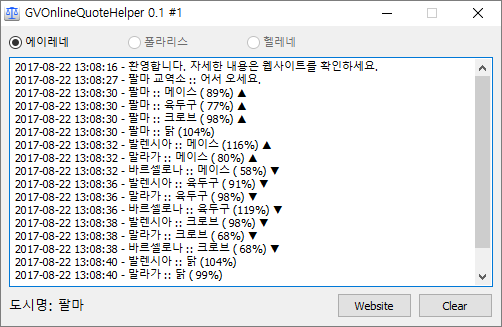
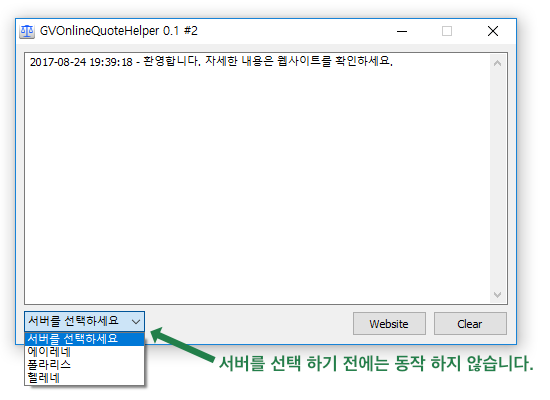
Notice :: Enable other servers.

Changed region(s): [[0.0, 0.0, 1.0, 1.0]]

diff --git a/www/index.php b/www/index.php
@@ -16,7 +16,7 @@
         <p>모든 데이터는 최대 3시간 동안 보존되며 Memory에서만 동작함으로 Disk에 기록되지 않습니다.</p>
         <p>어떠한 개인 정보도 수집하지 않으며 순수한 게임 정보 공유가 목적임으로 공격은 하지 말아 주시기 바랍니다.<br />노출되어서 문제가 되는 데이터는 없으므로 보안을 적용하지 않았습니다.<br />또한 Source 가 공개 되어 있으니 내용이 궁금하시다면 그쪽을 참고 해 주시기 바랍니다.</p>
         <p>Site 운영에 따른 Cost 가 개인이 감당할 수 없는 수준이라면 광고가 삽입될 수 있습니다.</p>
-        <p>"에이레네 서버"를 제외 한 부분은 당분간은 제공하지 않습니다.</p>
+        <p>"에이레네 서버"를 제외 한 부분은 테스트가 충분하지 않으니 많은 리포트 부탁 드립니다.</p>
         <p>게임 운영 정책에 맞지 않아 제재 또는 그에 상응하는 요구가 있으면 예고 없이 운영이 종료될 수 있습니다.</p>
         <p>문의 및 의논 사항은 언제든지 <a href="mailto:gvonline.helper@gmail.com" target="_top">gvonline.helper@gmail.com</a> 으로 연락 주시기 바랍니다.<br />(Design 이 구린것은 개발자 능력 부족한 것이니 Designer 모집 합니다. +.+)</p>
         <p>개발되는 모든 부분은 <a href="https://opensource.org/licenses/MIT">MIT License</a> 로 <a href="https://github.com/gvonline" target="_blank">GitHub</a> 에 공개 되므로 관심 있으신 분께선 같이 참여해 주시면 감사 하겠습니다.</p>
@@ -26,8 +26,8 @@
         <a class="btn btn-info btn-lg btn-block" href="http://quote.gvonline.ga" role="button">시세 도우미</a>
         <br />
         <a class="btn btn-primary btn-lg btn-block" href="http://eirene.gvonline.ga" role="button">에이레네 서버</a>
-        <a class="btn btn-default btn-lg btn-block" href="http://polaris.gvonline.ga" role="button">폴라리스 서버</a>
-        <a class="btn btn-default btn-lg btn-block" href="http://helen.gvonline.ga" role="button">헬레네 서버</a>
+        <a class="btn btn-success btn-lg btn-block" href="http://polaris.gvonline.ga" role="button">폴라리스 서버</a>
+        <a class="btn btn-warning btn-lg btn-block" href="http://helen.gvonline.ga" role="button">헬레네 서버</a>
     </div>
 </div>
 </body>

diff --git a/quote/index.php b/quote/index.php
@@ -27,8 +27,12 @@ if (isset($_POST['server']) && isset($_POST['city_name'])) {
             $redis->connect('127.0.0.1','6379', 1, NULL, 100);
             break;
         case 'polaris':
+            $redis = new Redis();
+            $redis->connect('127.0.0.1','6380', 1, NULL, 100);
             break;
         case 'helen':
+            $redis = new Redis();
+            $redis->connect('127.0.0.1','6381', 1, NULL, 100);
             break;
         default:
             break;
@@ -92,12 +96,18 @@ if (isset($_POST['server']) && isset($_POST['city_name'])) {
         <p><br /></p>
     </div>
     <div class="center-block">
-        <h4>2. 프로그램 동작 화면</h4>
+        <h4>2. 프로그램 동작 전 화면</h4>
         <img src="/images/image002.png" />
         <p>네비게이션 프로그램 과 동일 한 방식으로 동작함으로 프로그램 실행후 게임을 진행 하시면 되겠습니다.<br />
-        <strong class="text-danger">(에이레네 외 다른 서버는 이후 지원 할 예정 입니다.)</strong></p>
+        <strong class="text-danger" style="font-size: 200%;">서버 선택에 주의 해 주시기 바랍니다.</strong></p>
+        <p><br /></p>
+    </div>
+    <div class="center-block">
+        <h4>3. 프로그램 동작 화면</h4>
+        <img src="/images/image003.png" />
         <p><strong class="text-success">매각</strong> 화면 및 <strong class="text-success">인근도시시세</strong> 화면을 읽어 자동으로 갱신 하며, 화면을 읽어 분석하는데 대략 1초 정도의 시간이 걸립니다.</p>
         <p>수집된 결과는 프로그램내부가 아닌 각 서버 페이지에서 확인 하도록 되어 있어 모바일 및 PC 에서 확인 하실 수 있습니다.</p>
+        <p>Clear 버튼을 누르면 서버를 변경 하거나 새로운 정보로 갱신 할 수 있습니다.</p>
     </div>
     <div class="center-block">
         <br />

diff --git a/polaris/index.php b/polaris/index.php
@@ -1,10 +1,15 @@
-<!DOCTYPE html>
-<html>
-<head>
-<meta charset="UTF-8">
-<title>GVOnline Helper :: 폴라리스 서버</title>
-</head>
-<body>
-준비중 입니다.
-</body>
-</html>
+<?php
+require_once('../assets/common.php');
+
+$title = 'GVOnline Helper :: 폴라리스 서버';
+$baseURL = 'http://polaris.gvonline.ga/index2.php';
+$type = isset($_GET['type']) ? trim($_GET['type']) : '';
+$name = isset($_GET['name']) ? trim($_GET['name']) : '';
+
+$redis = new Redis();
+$redis->connect('127.0.0.1','6380', 1, NULL, 100);
+$result = getListData($type, $name, $redis);
+$redis->close();
+
+require_once('../assets/quote_list_view.php');
+?>

diff --git a/helen/index.php b/helen/index.php
@@ -1,10 +1,15 @@
-<!DOCTYPE html>
-<html>
-<head>
-<meta charset="UTF-8">
-<title>GVOnline Helper :: 헬레네 서버</title>
-</head>
-<body>
-준비중 입니다.
-</body>
-</html>
+<?php
+require_once('../assets/common.php');
+
+$title = 'GVOnline Helper :: 헬레네 서버';
+$baseURL = 'http://helen.gvonline.ga/index2.php';
+$type = isset($_GET['type']) ? trim($_GET['type']) : '';
+$name = isset($_GET['name']) ? trim($_GET['name']) : '';
+
+$redis = new Redis();
+$redis->connect('127.0.0.1','6381', 1, NULL, 100);
+$result = getListData($type, $name, $redis);
+$redis->close();
+
+require_once('../assets/quote_list_view.php');
+?>
